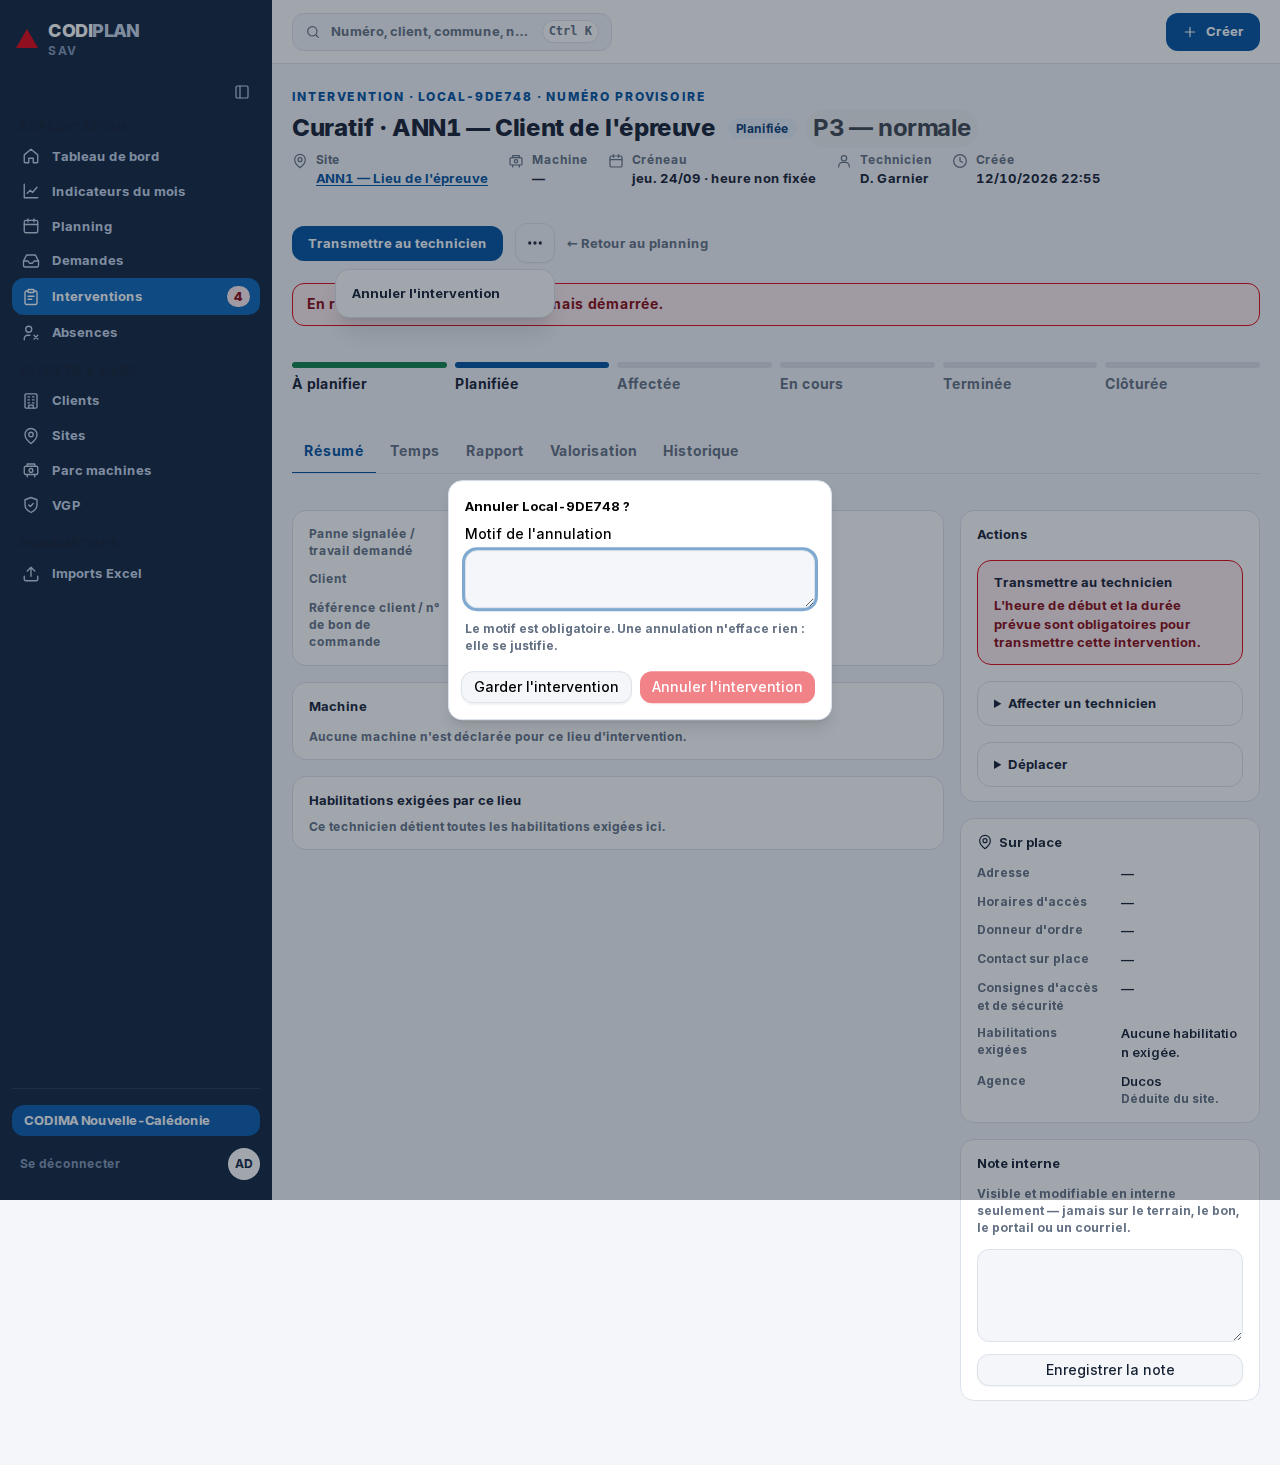
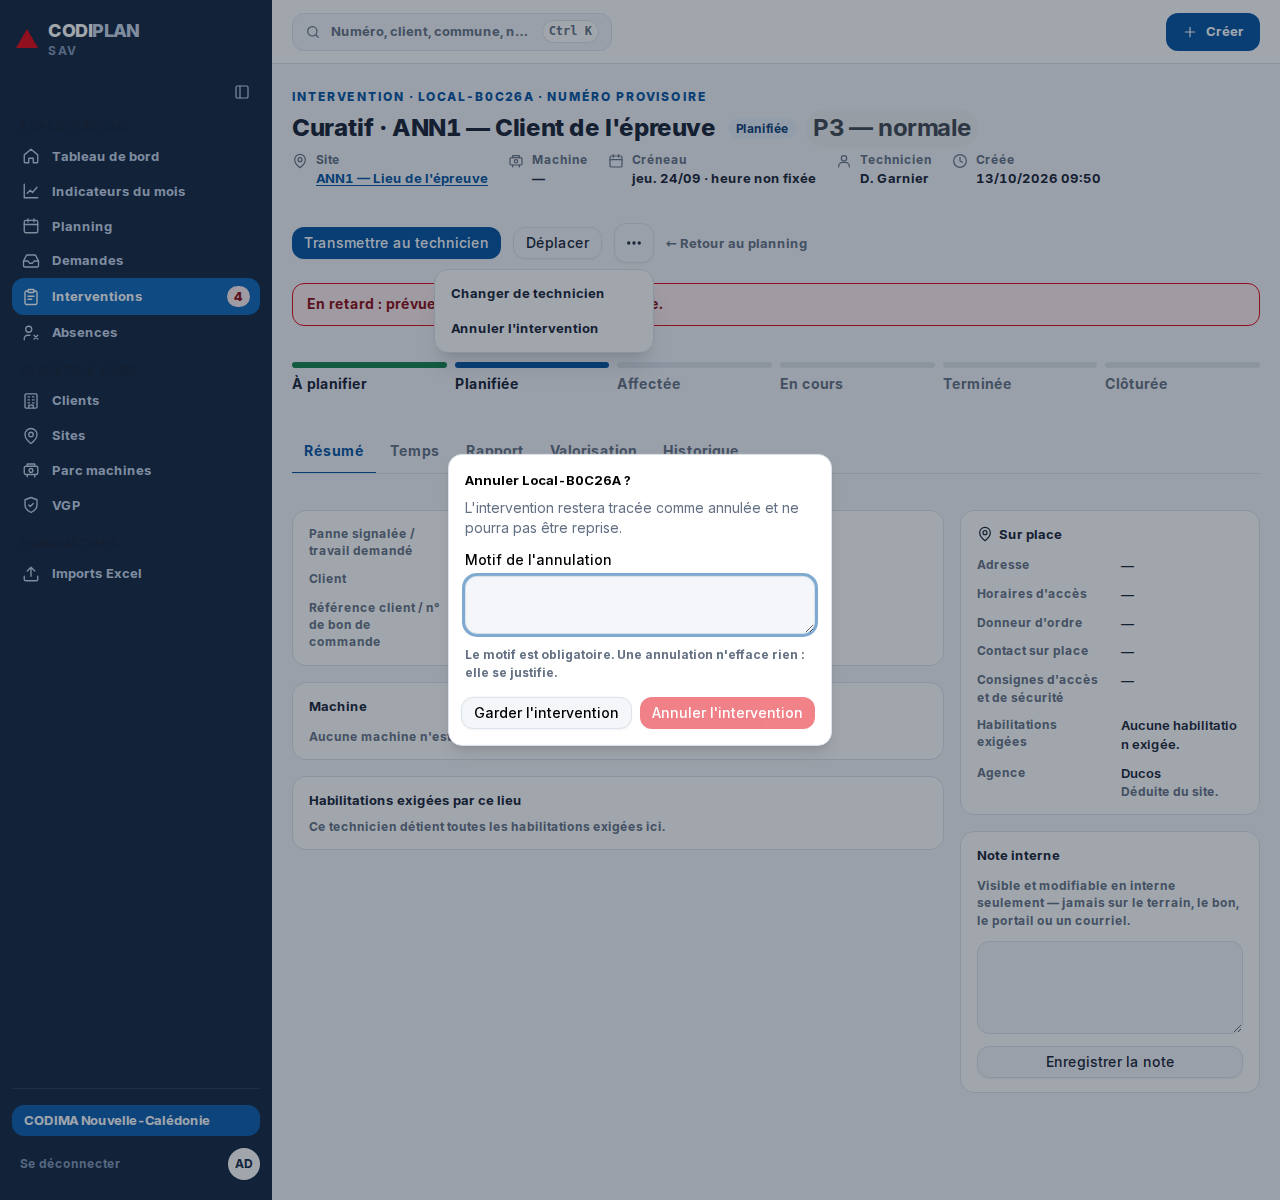
9EU-SOLDE-FICHE-PLANNING — D83 : phrase d'annulation, visible sous le titre du dialogue
Décision n° 83 d'Alexis du 13/10/2026 : « L'intervention restera tracée comme
annulée et ne pourra pas être reprise. » devient une clé i18n dédiée
(intervention.annulation.consequence), visible dans le dialogue avant le
champ motif, et éprouvée (fiche-annuler.spec.ts). Captures 375/1280 du
dialogue mises à jour.

diff --git a/tests/e2e/fiche-annuler.spec.ts b/tests/e2e/fiche-annuler.spec.ts
@@ -119,11 +119,15 @@ const DOSSIER_CAPTURES = join(
   "docs/propositions/84-FICHE-ANNULER/captures",
 );
 
-async function capturer(page: Page, nom: string): Promise<void> {
+async function capturer(
+  page: Page,
+  nom: string,
+  largeur: number,
+): Promise<void> {
   mkdirSync(DOSSIER_CAPTURES, { recursive: true });
-  await page.setViewportSize({ width: 1280, height: 1200 });
+  await page.setViewportSize({ width: largeur, height: 1200 });
   await page.screenshot({
-    path: join(DOSSIER_CAPTURES, `${nom}-1280.png`),
+    path: join(DOSSIER_CAPTURES, `${nom}-${largeur}.png`),
     fullPage: true,
   });
 }
@@ -154,6 +158,9 @@ test("le bouton « Annuler l'intervention » est désactivé tant qu'aucun motif
       referenceAffichee({ id: INTERVENTION_ANN1, numero: null }),
     ),
   ).toBeVisible();
+  await expect(
+    dialogue.getByText(fr["intervention.annulation.consequence"]),
+  ).toBeVisible();
 
   const bouton = dialogue.getByRole("button", {
     name: fr["intervention.action.annuler"],
@@ -161,7 +168,8 @@ test("le bouton « Annuler l'intervention » est désactivé tant qu'aucun motif
   await expect(bouton).toBeVisible();
   await expect(bouton).toBeDisabled();
 
-  await capturer(page, "dialogue-ouvert");
+  await capturer(page, "dialogue-ouvert", 1280);
+  await capturer(page, "dialogue-ouvert", 375);
 });
 
 test("un motif saisi puis « Garder l'intervention » ne change rien", async ({

diff --git a/lib/i18n/fr.ts b/lib/i18n/fr.ts
@@ -2146,6 +2146,11 @@ export const fr = {
   // « Garder », jamais « Fermer » : ce pied dit ce que CHAQUE bouton fait à
   // l'intervention, pas seulement au dialogue (maquette, `ACT["annuler-iv"]`).
   "intervention.annulation.garder": "Garder l'intervention",
+  // LA CONSÉQUENCE, SOUS LE TITRE (décision n° 83 d'Alexis du 13/10/2026,
+  // 9EU-SOLDE-FICHE-PLANNING) — distincte de `confirmation_apres` : celle-ci
+  // compose le TITRE, celle-ci est une phrase à part, visible avant le motif.
+  "intervention.annulation.consequence":
+    "L'intervention restera tracée comme annulée et ne pourra pas être reprise.",
 
   // ── LES REFUS À LA POSE (R2-19) — chacun NOMME son motif ────────────────
   //

diff --git a/components/interventions/dialogue-annuler.tsx b/components/interventions/dialogue-annuler.tsx
@@ -65,6 +65,9 @@ export function DialogueAnnuler({
           method="post"
           className="flex flex-col gap-3"
         >
+          <p className="text-app-encre-faible text-14">
+            {t("intervention.annulation.consequence")}
+          </p>
           <label className="flex flex-col gap-1.5 text-sm font-medium">
             {t("intervention.annulation.motif")}
             <textarea
